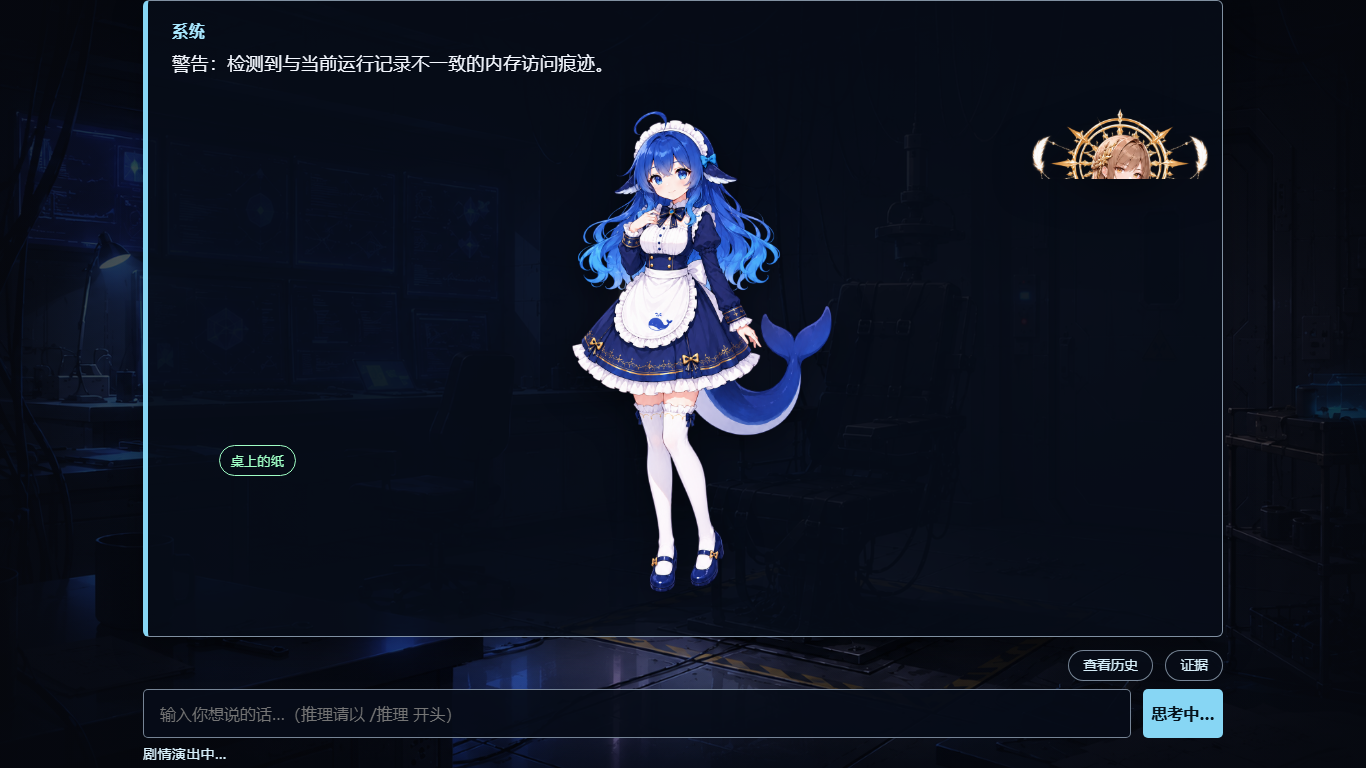
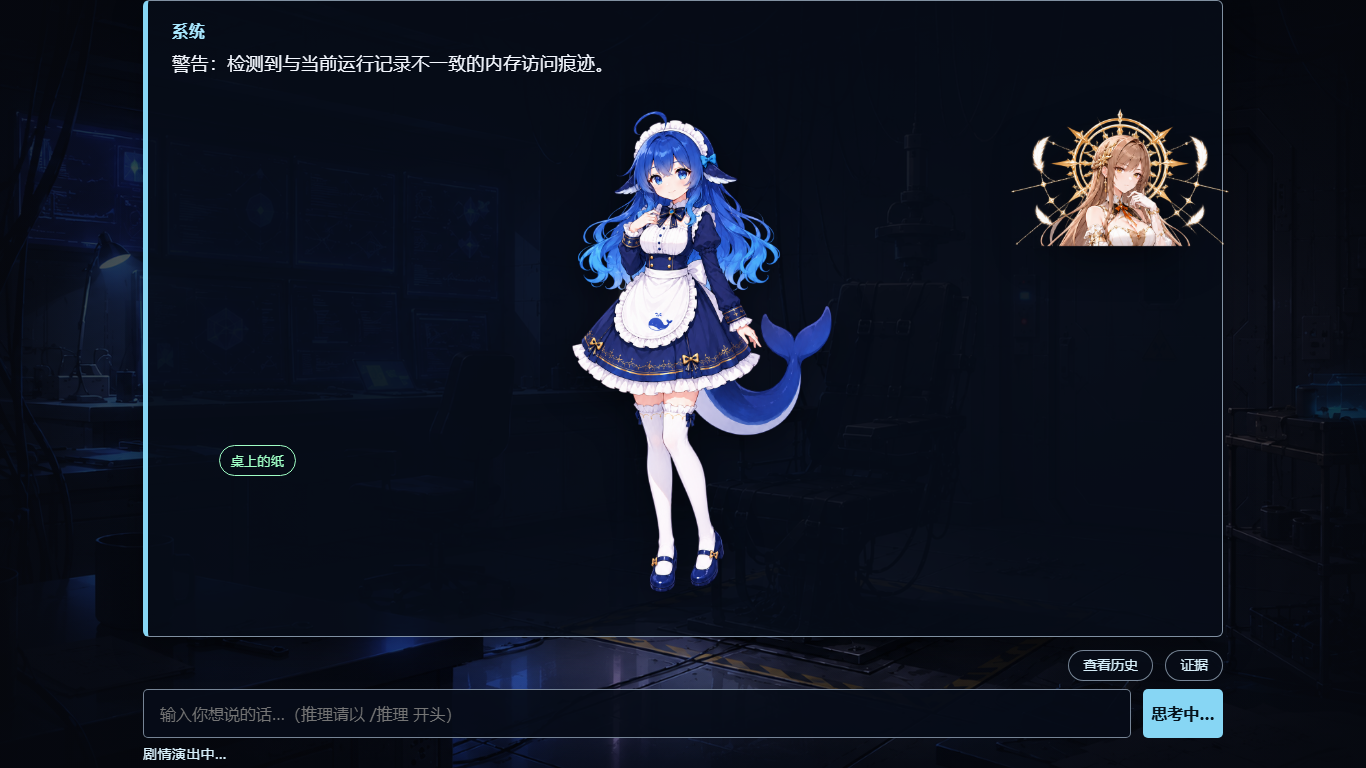
fix(docs15): 首页移除独立立绘层（背景图已含人物，v1.1）+ 基线重拍

Changed region(s): [[0.7379, 0.2188, 0.8917, 0.3438]]

diff --git a/frontend-vue/src/views/TitleView.vue b/frontend-vue/src/views/TitleView.vue
@@ -20,8 +20,6 @@ const saves = useSavesStore()
 const ui = useUiStore()
 const settings = useSettingsStore()
 
-const DEEPSEEK_CHAR = '/char/deepseek/pic/deepseek_main.png'
-
 const newGameBusy = ref(false)
 const newGameError = ref<string | null>(null)
 const continueBusy = ref(false)
@@ -71,9 +69,8 @@ async function refreshSaves() {
 
 onMounted(refreshSaves)
 
-// ── 视差层（docs/15 §4.2） ──
+// ── 视差层（docs/15 §4.2；v1.1 起无角色层，charRef 不传） ──
 const bgRef = ref<HTMLElement | null>(null)
-const charRef = ref<HTMLElement | null>(null)
 const starsLayerRef = ref<HTMLElement | null>(null)
 
 const prefersReducedMotion =
@@ -82,7 +79,6 @@ const prefersReducedMotion =
   window.matchMedia('(prefers-reduced-motion: reduce)').matches
 
 const { handleMouseMove, handleMouseLeave } = useParallaxAnimation({
-  charRef,
   bgRef,
   starsLayerRef,
 })
@@ -113,16 +109,10 @@ const backendLabel = computed(() =>
       <StarAnimation :stars-enabled="settings.mainMenuStarsEnabled" :stars-fps="30" />
     </div>
 
-    <!-- 4. 角色立绘层（本项目自有素材，docs/15 §2）。src 用绑定避免 Vite 把
-         公共路径当静态资源导入（vitest 下会解析失败）。 -->
-    <img
-      ref="charRef"
-      class="title-character"
-      :src="DEEPSEEK_CHAR"
-      alt="DeepSeek"
-    />
-
-    <!-- 5. 菜单层（mousemove/mouseleave 驱动视差） -->
+    <!-- 4. 菜单层（mousemove/mouseleave 驱动视差）。
+         docs/15 v1.1 修订：首页不放角色立绘 —— 背景图（background_title.png）
+         本身已含人物，叠一层立绘会双人撞车。五层结构改为四层（背景/流星/
+         星星/菜单），视差作用于背景与星星层。 -->
     <StartPage @mousemove="onMouseMove" @mouseleave="onMouseLeave">
       <div class="flex flex-col gap-4">
         <Transition name="slide-left" appear>
@@ -183,18 +173,6 @@ const backendLabel = computed(() =>
   background-size: cover;
   background-position: center;
   z-index: 0;
-  will-change: transform;
-}
-
-.title-character {
-  position: absolute;
-  top: 50%;
-  left: 50%;
-  transform: translate(-50%, -50%);
-  max-width: 100%;
-  max-height: 100%;
-  z-index: 3;
-  pointer-events: none;
   will-change: transform;
 }
 

diff --git a/frontend-vue/src/composables/useParallaxAnimation.ts b/frontend-vue/src/composables/useParallaxAnimation.ts
@@ -21,7 +21,8 @@ export interface ParallaxConfig {
 }
 
 export interface ParallaxElements {
-  charRef: Ref<HTMLElement | null>
+  // docs/15 v1.1：charRef 改为可选 —— 首页背景图已含人物，不再叠独立立绘层
+  charRef?: Ref<HTMLElement | null>
   bgRef: Ref<HTMLElement | null>
   starsLayerRef: Ref<HTMLElement | null>
 }
@@ -74,7 +75,7 @@ export function useParallaxAnimation(
    */
   function setupPerformanceOptimizations() {
     const elementsToOptimize = [
-      elements.charRef.value,
+      elements.charRef?.value,
       elements.bgRef.value,
       elements.starsLayerRef.value,
     ]
@@ -100,7 +101,7 @@ export function useParallaxAnimation(
    */
   function cleanupPerformanceOptimizations() {
     const elementsToOptimize = [
-      elements.charRef.value,
+      elements.charRef?.value,
       elements.bgRef.value,
       elements.starsLayerRef.value,
     ]
@@ -126,7 +127,7 @@ export function useParallaxAnimation(
     // 使用 3D transform 触发硬件加速
     const transform3D = PARALLAX_CONFIG.USE_TRANSFORM_3D ? ' translateZ(0)' : ''
 
-    if (elements.charRef.value) {
+    if (elements.charRef?.value) {
       elements.charRef.value.style.transform = `translate(-50%, -50%) translateX(${charShift}px)${transform3D}`
     }
     if (elements.bgRef.value) {

diff --git a/validation-results/docs15/result.md b/validation-results/docs15/result.md
@@ -83,7 +83,7 @@ StarAnimation / StarField 在特效开启时确实绘制，不依赖肉眼判断
 
 | docs/15 §1 差距 | 状态 |
 |---|---|
-| 首页背景压暗/无景深/无视差 | ✅ 全亮 120% 宽 + 五层景深 + 阻尼视差（prefers-reduced-motion 禁用） |
+| 首页背景压暗/无景深/无视差 | ✅ 全亮 120% 宽 + 多层景深 + 阻尼视差（prefers-reduced-motion 禁用）；v1.1 起为四层（背景/流星/星星/菜单），无独立角色立绘 |
 | 菜单表单风 | ✅ clamp 大字 + text-shadow + 回弹 hover（cubic-bezier 0.18/0.89/0.32/1.28） |
 | 无流星/星星 | ✅ MeteorAnimation + StarAnimation（离屏预渲染缓存、30fps、隐藏暂停） |
 | 无转场/无面板模糊 | ✅ 菜单 slide 入场 + 路由淡入 + .gal-modal-mask 背景 blur |
@@ -97,7 +97,16 @@ StarAnimation / StarField 在特效开启时确实绘制，不依赖肉眼判断
 | 对话框缺 subtitle | ✅ character-sub 行补齐（ROLE_META.roleSubTitle，窄屏隐藏） |
 | 五页风格不统一 | ✅ 共享 token + .gal-panel/.gal-btn + 统一页壳（Load/Settings） |
 
-## 4. 已知限制（如实记录）
+## 5. 修订记录
+
+- **v1.1（2026-08-20）**：首页移除 DeepSeek 独立立绘层 ——
+  `background_title.png` 背景图本身已含人物，叠加立绘会双人撞车。
+  TitleView 改为四层结构；useParallaxAnimation 的 `charRef` 改为可选参数
+  （char ±10px 视差通道保留，供后续主视觉 KV 立绘回归时启用）。
+  同步修订 docs/15 §2/§4.1/§4.2 与 docs/13 §11.5 落地状态；
+  标题页视觉基线（TITLE_EMPTY_SAVE ×2）与展示截图已重拍。
+
+## 6. 已知限制（如实记录）
 
 - **粒子不进视觉基线**：canvas 动画不可确定性冻结；基线在特效关闭状态拍摄
   （结构布局），粒子正确性由展示截图 + canvas 像素断言 + VLM 复核承担；

diff --git a/docs/13-LingChat前端源码迁移、开始界面与存档系统落地方案.md b/docs/13-LingChat前端源码迁移、开始界面与存档系统落地方案.md
@@ -804,9 +804,10 @@ Logo / title 区域
 ```
 
 > **落地状态（docs/15）：** MainMenu 的视觉层与动画层已按本节重建 ——
-> 背景层（全亮 120% 宽视差余量）/流星层/星星层/人物层（deepseek 立绘）/
-> 鼠标视差（useParallaxAnimation）/菜单 hover 回弹与入场 slide transition/
-> CSS 文字 Logo（自制，不迁移 LingChat 图片 Logo）全部就位；
+> 背景层（全亮 120% 宽视差余量）/流星层/星星层/鼠标视差（useParallaxAnimation）/
+> 菜单 hover 回弹与入场 slide transition/CSS 文字 Logo（自制，不迁移 LingChat
+> 图片 Logo）全部就位；**人物层不设独立立绘**（本项目 background_title.png
+> 背景图已含人物，docs/15 v1.1 修订）；
 > 按钮仅保留 开始游戏/继续游戏/读取存档/设置 四项，并保留 `.title-btn` 类名。
 > 实现见 `frontend-vue/src/views/TitleView.vue` 与 `frontend-vue/src/components/title/`。
 
